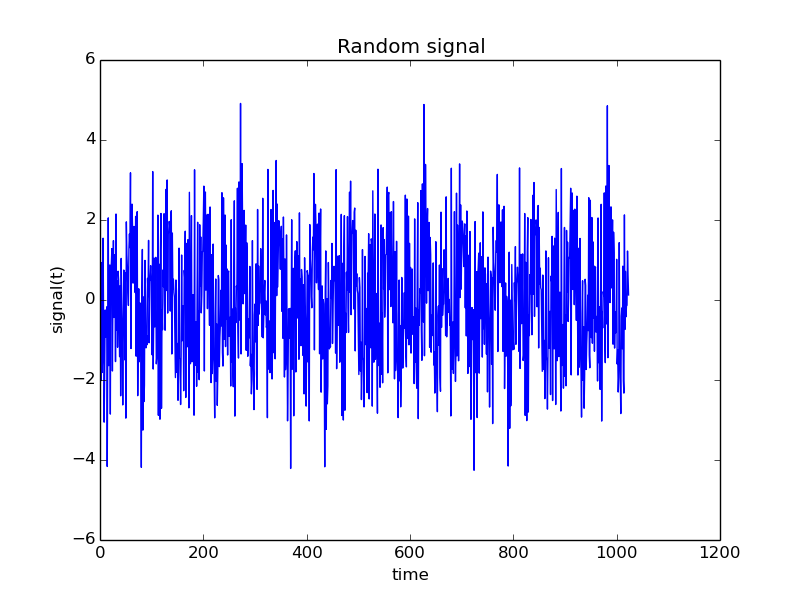
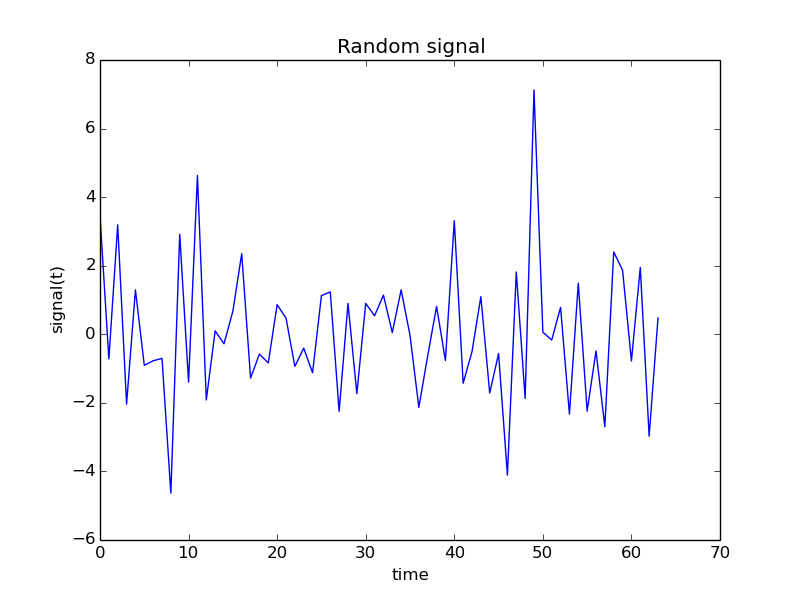
feat: add exp value and variance

diff --git a/index.py b/index.py
@@ -3,11 +3,14 @@ import matplotlib.pyplot as plt
 import numpy as np
 import rsg
 
-n = 12
-W = 2400
-N = 1024
+n = 14
+W = 2500
+N = 64
 time = range(N)
 signal = rsg.getRandomSignal(n, W, N)
+
+print("Expected value", np.mean(signal))
+print("Variance", np.std(signal))
 
 fig, ax1 = plt.subplots()
 ax1.plot(time, signal)
